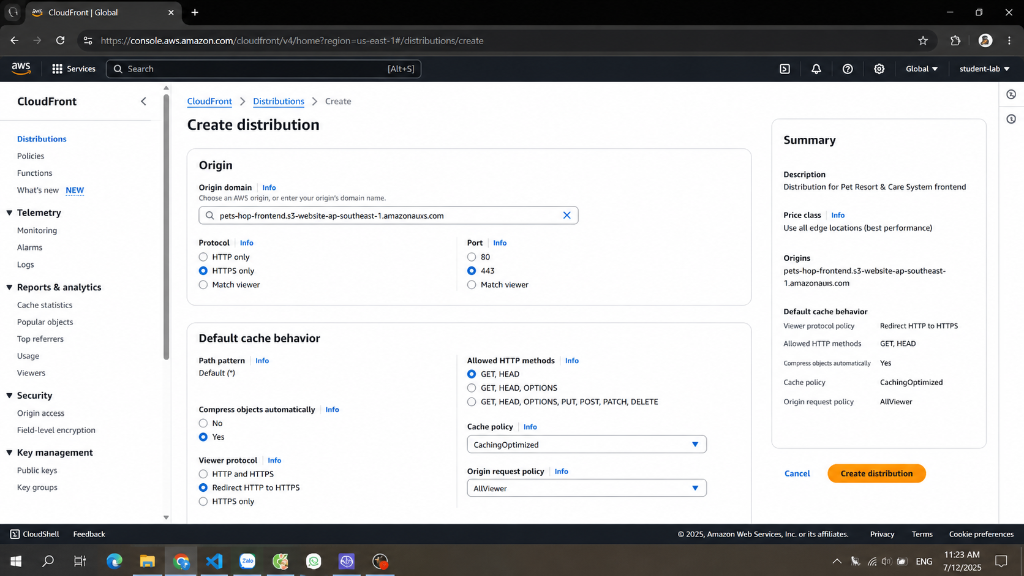
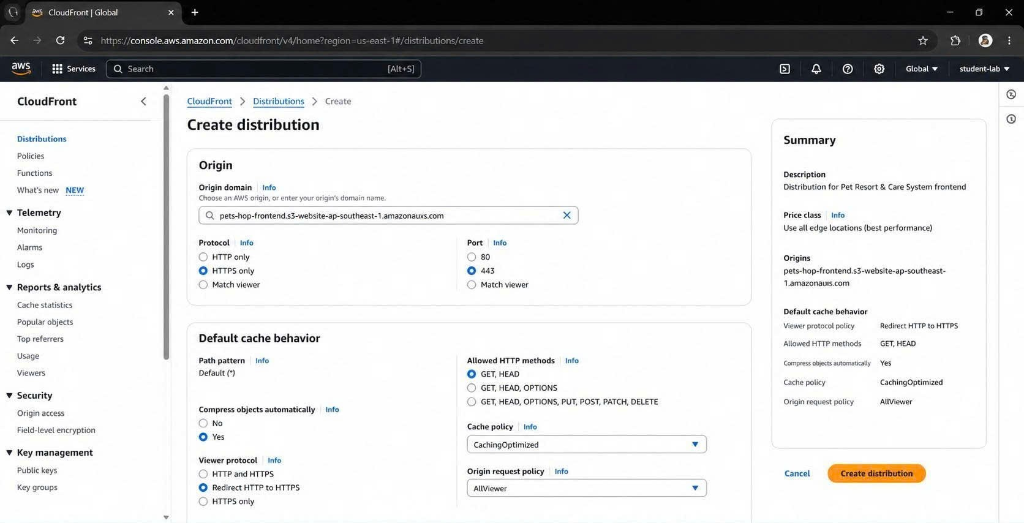
update build success, alb, swagger, and cloudfront images with correct metadata and descriptions

Changed region(s): [[0.0, 0.0306, 1.0, 1.0], [0.75, 0.2141, 0.9375, 0.7342], [0.0312, 0.0, 0.125, 0.0306]]

diff --git a/content/5-Workshop/5.2-EC2-backend/5.2.2-publish-app/_index.md b/content/5-Workshop/5.2-EC2-backend/5.2.2-publish-app/_index.md
@@ -34,7 +34,7 @@ After pressing Enter, Maven will download necessary dependencies and package the
 
 The execution of the command automatically generates a folder named `target`, visible in the left Explorer pane of VS Code. In the Spring Boot ecosystem, your primary focus is this single file:
 
-- ✅ `pet-resort-api-0.0.1-SNAPSHOT.jar` - The Fat JAR file ready to be uploaded to your EC2 server.
+- ✅ `petshop-backend-1.0.0.jar` - The Fat JAR file ready to be uploaded to your EC2 server.
 - ✅ Includes an Embedded Web Server (Tomcat).
 - ✅ All necessary dependencies are bundled inside.
 - ✅ Configurations from `application.properties` are accurately mapped.

diff --git a/content/5-Workshop/5.2-EC2-backend/5.2.2-publish-app/_index.vi.md b/content/5-Workshop/5.2-EC2-backend/5.2.2-publish-app/_index.vi.md
@@ -34,7 +34,7 @@ Sau khi nhấn Enter, Maven sẽ tải các thư viện cần thiết và tiến
 
 Lệnh trên đã tự động tạo ra một thư mục có tên là `target` nằm trong cây thư mục bên trái của VS Code. Trong hệ sinh thái Spring Boot, bạn chỉ cần quan tâm đến file quan trọng nhất:
 
-- ✅ `petshop-api-0.0.1-SNAPSHOT.jar` - File Fat JAR đã sẵn sàng để upload lên máy chủ EC2.
+- ✅ `petshop-backend-1.0.0.jar` - File Fat JAR đã sẵn sàng để upload lên máy chủ EC2.
 - ✅ Tích hợp sẵn máy chủ Web (Embedded Tomcat).
 - ✅ Tất cả dependencies (thư viện) đã được bao gồm đầy đủ bên trong.
 - ✅ Cấu hình từ `application.properties` đã được ánh xạ chuẩn xác.